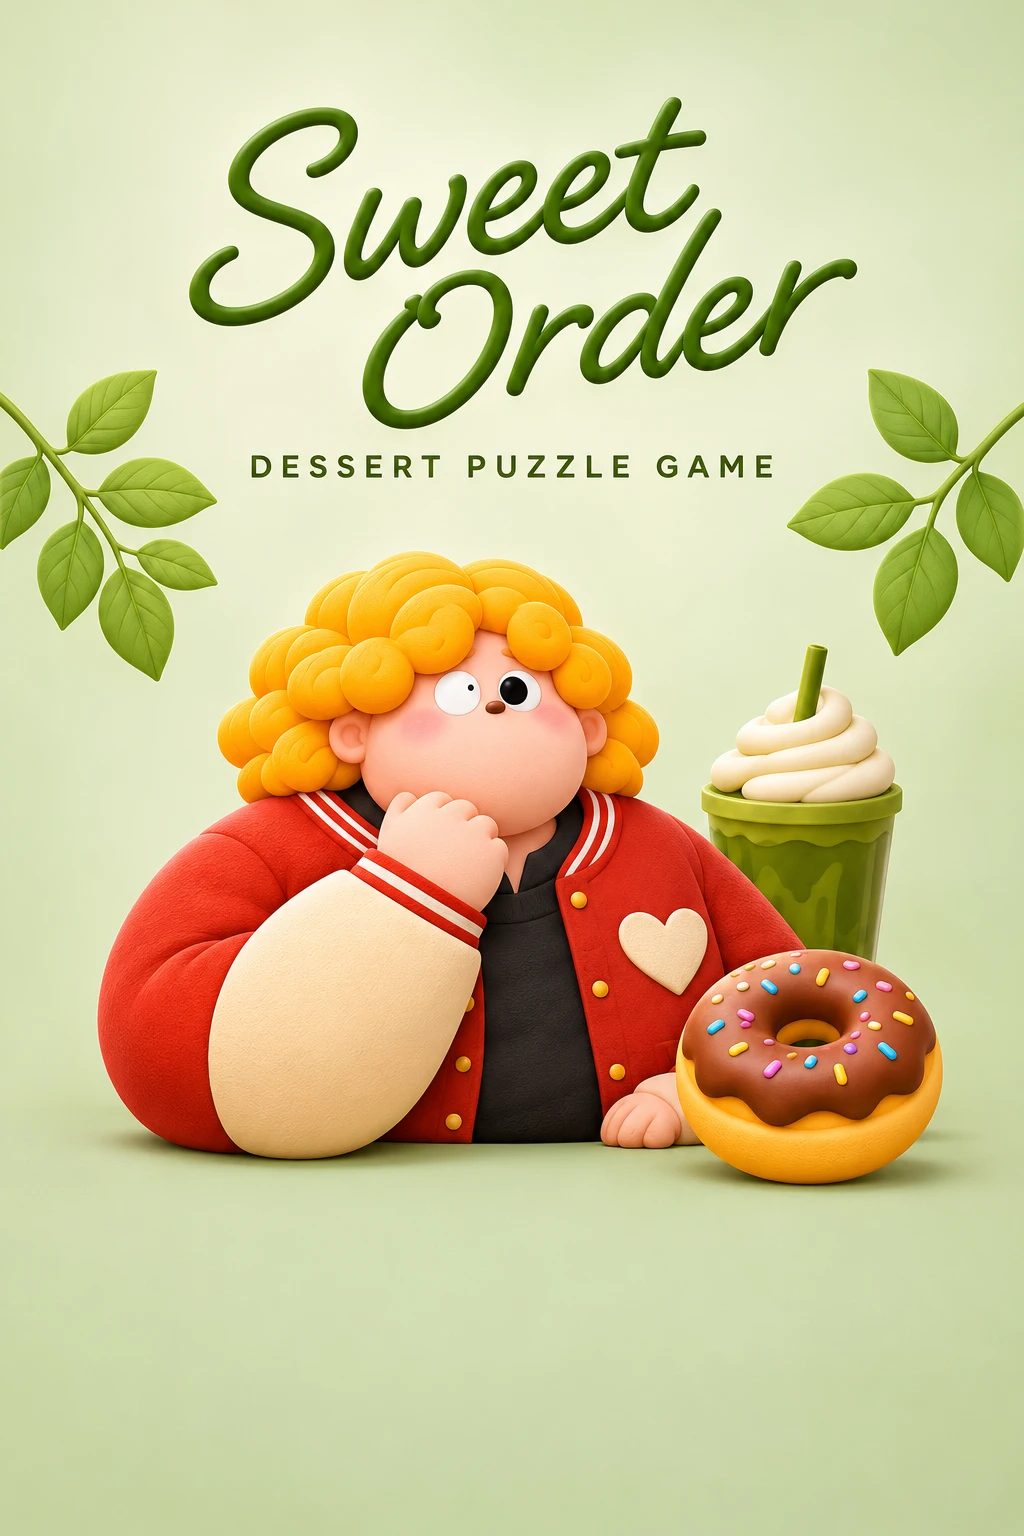
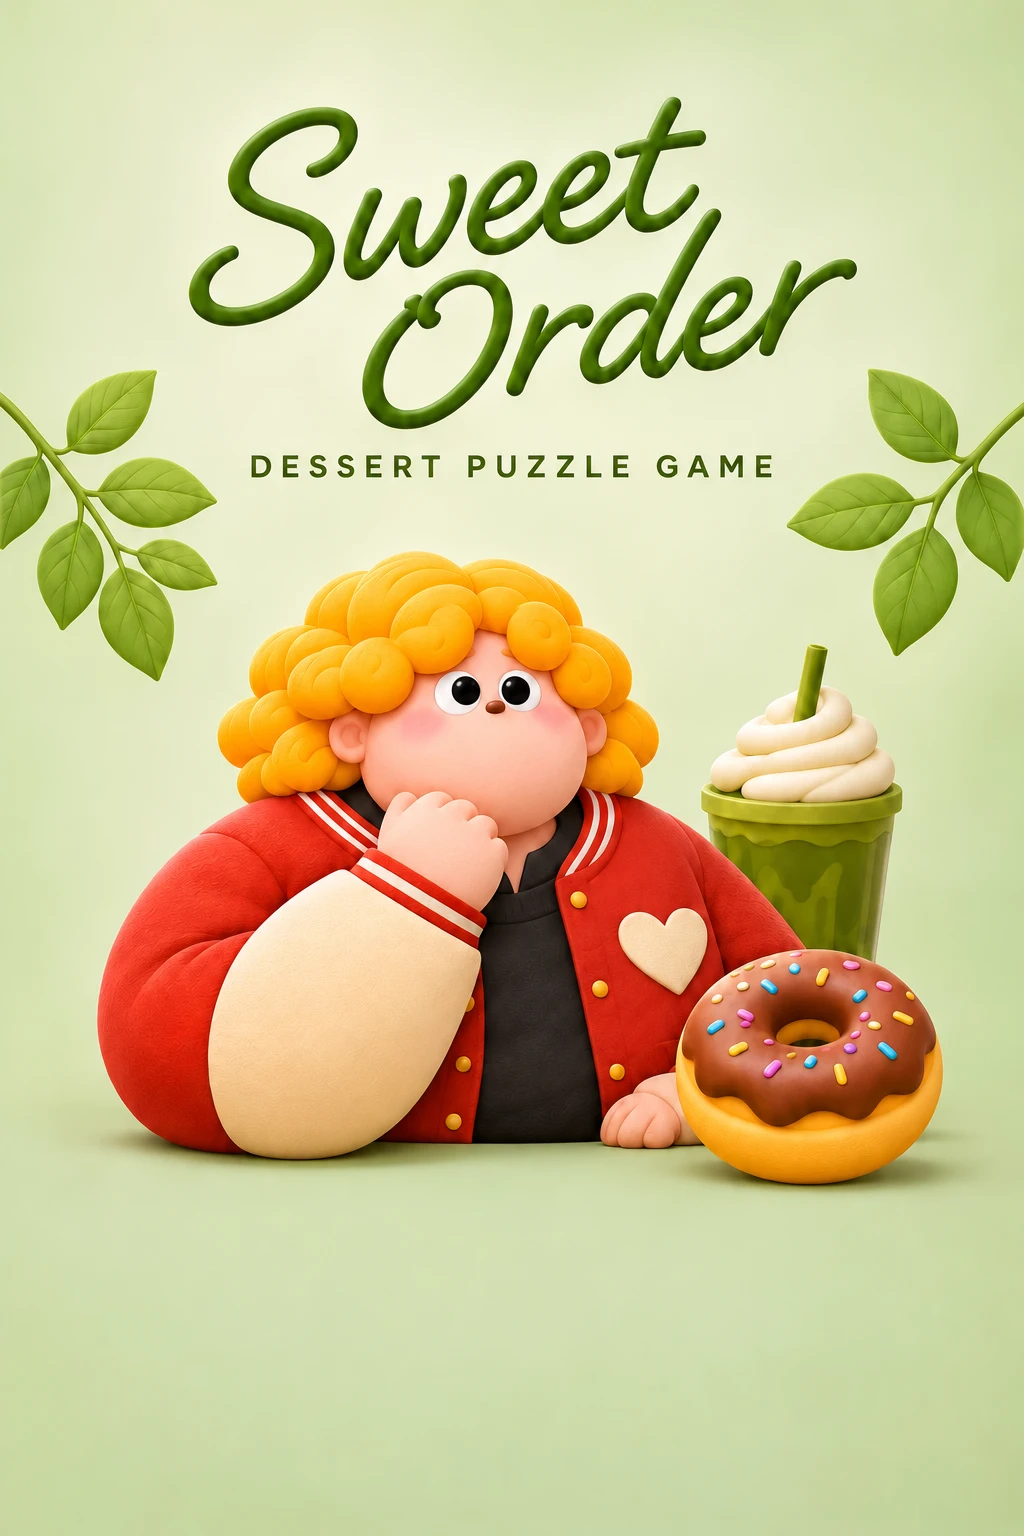
Extend sharp home artwork to top and balance matcha eyes

Changed region(s): [[0.4375, 0.4375, 0.5, 0.4688], [0.5625, 0.5312, 0.5938, 0.5625]]

diff --git a/src/pages/StartPage.tsx b/src/pages/StartPage.tsx
@@ -8,23 +8,23 @@ const posters = import.meta.glob<string>('../assets/home/*.webp', {
 });
 
 const themes = [
-  { name: 'berry', button: '#a63126' },
-  { name: 'bakery', button: '#594587' },
-  { name: 'honey', button: '#975008' },
-  { name: 'rose', button: '#a52c55' },
-  { name: 'matcha', button: '#51601c' },
-  { name: 'sky', button: '#255981' },
-  { name: 'peach', button: '#a44429' },
-  { name: 'night', button: '#463e72' },
-  { name: 'shop', button: '#9e4818' },
-  { name: 'lavender', button: '#56418b' },
+  { name: 'berry', button: '#a63126', backdrop: 'linear-gradient(#fcd5d5, #f9c0c3)' },
+  { name: 'bakery', button: '#594587', backdrop: 'linear-gradient(#d7bdfa, #facfd9)' },
+  { name: 'honey', button: '#975008', backdrop: 'linear-gradient(#fde5b2, #fed57f)' },
+  { name: 'rose', button: '#a52c55', backdrop: 'linear-gradient(#fec9e4, #fdc1de)' },
+  { name: 'matcha', button: '#51601c', backdrop: 'linear-gradient(#dae4ba, #c9d5a5)' },
+  { name: 'sky', button: '#255981', backdrop: 'linear-gradient(#8ac8fc, #9dbb49)' },
+  { name: 'peach', button: '#a44429', backdrop: 'linear-gradient(#ffd9c4, #fcaa8b)' },
+  { name: 'night', button: '#463e72', backdrop: 'linear-gradient(#29478c, #9588ca)' },
+  { name: 'shop', button: '#9e4818', backdrop: 'linear-gradient(#fd8494, #fdb093)' },
+  { name: 'lavender', button: '#56418b', backdrop: 'linear-gradient(#d7c5fd, #c4a0f3)' },
 ] as const;
 
 export function StartPage({ level, onGame, onLevels }: { level: number; onGame: () => void; onLevels: () => void }) {
   const [theme] = useState(() => themes[Math.floor(Math.random() * themes.length)]!);
   const poster = posters[`../assets/home/${theme.name}.webp`];
 
-  return <main className="start-page" style={{ '--start-button': theme.button, '--start-poster': `url("${poster}")` } as CSSProperties}>
+  return <main className="start-page" style={{ '--start-button': theme.button, '--start-backdrop': theme.backdrop } as CSSProperties}>
     <h1 className="sr-only">달콤한 주문, Sweet Order</h1>
     <img className="start-poster" src={poster} alt="" draggable={false} fetchPriority="high" />
     <div className="start-actions">

diff --git a/src/styles/main.scss b/src/styles/main.scss
@@ -77,24 +77,16 @@
   display: grid;
   justify-items: center;
   align-items: end;
-  background: #fff1e7;
-}
-.start-page::before {
-  content: '';
-  position: absolute;
-  z-index: -1;
-  inset: -30px;
-  background: var(--start-poster) center / cover no-repeat;
-  filter: blur(30px);
+  background: var(--start-backdrop, #fff1e7);
 }
 .start-poster {
   position: absolute;
-  top: 50%;
-  left: 50%;
-  width: min(100%, 66.6667dvh);
-  height: auto;
-  transform: translate(-50%, -50%);
-  mask-image: linear-gradient(transparent, #000 16px, #000 calc(100% - 16px), transparent);
+  inset: 0 auto auto 0;
+  width: 100%;
+  height: min(100%, 188cqw);
+  object-fit: cover;
+  object-position: center top;
+  mask-image: linear-gradient(#000 calc(100% - 20px), transparent);
   pointer-events: none;
 }
 .start-actions {
@@ -103,7 +95,7 @@
   display: grid;
   gap: 9px;
   width: min(86%, 306px);
-  margin-bottom: max(20px, env(safe-area-inset-bottom), calc((100dvh - 150cqw) / 2 + 14px));
+  margin-bottom: max(clamp(20px, 8dvh, 64px), env(safe-area-inset-bottom));
 }
 .start-actions .primary-button { background: var(--start-button); color: white; border: 2px solid #fffdf4; min-height: 53px; font-size: 19px; box-shadow: 0 4px 9px #371d2e42; }
 .start-actions .secondary-button { background: #fff9f1; color: #563829; border: 1px solid #fff; box-shadow: 0 3px 7px #371d2e38; }
@@ -416,8 +408,8 @@
 
 @media (orientation: landscape) and (max-height: 520px) and (min-width: 600px) {
   .app-shell { width: min(100%, 820px); }
-  .start-actions { width: min(86%, 230px); }
-  .start-poster { mask-image: linear-gradient(90deg, transparent, #000 16px, #000 calc(100% - 16px), transparent); }
+  .start-actions { width: min(86%, 230px); margin-bottom: max(16px, env(safe-area-inset-bottom)); }
+  .start-poster { object-fit: contain; mask-image: none; }
   .level-list { grid-template-columns: repeat(5, minmax(0, 1fr)); max-width: none; }
   .game-board { grid-template-rows: clamp(78px, 27dvh, 125px) auto minmax(0, 1fr); }
   .order-grid { grid-template: 1fr / repeat(4, minmax(0, 1fr)); }
